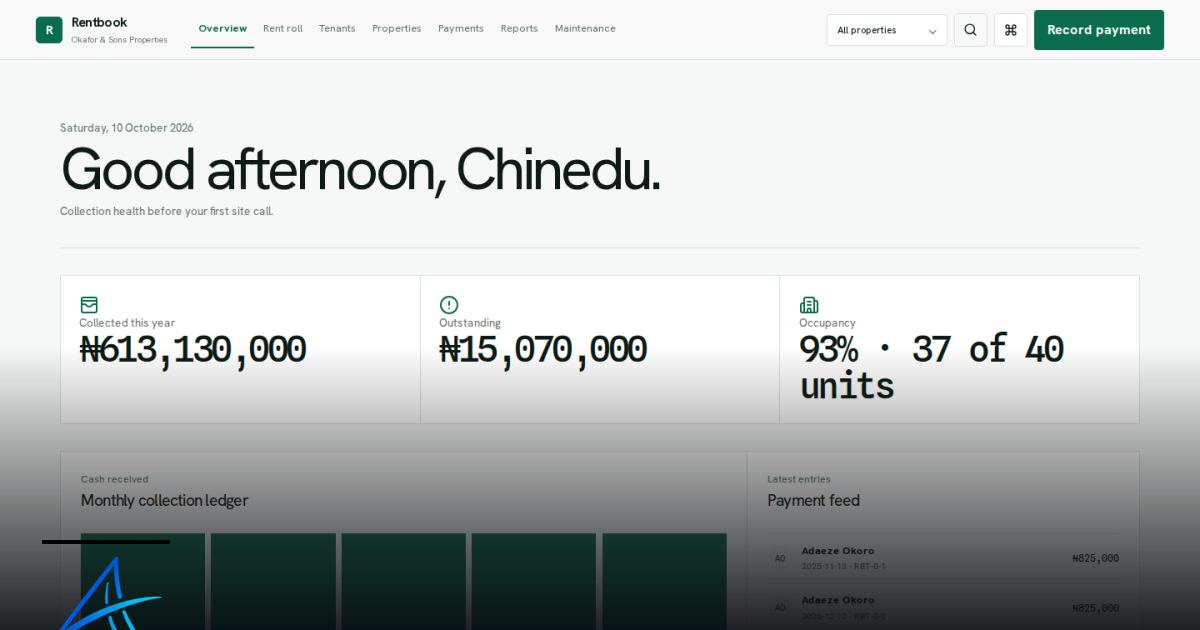
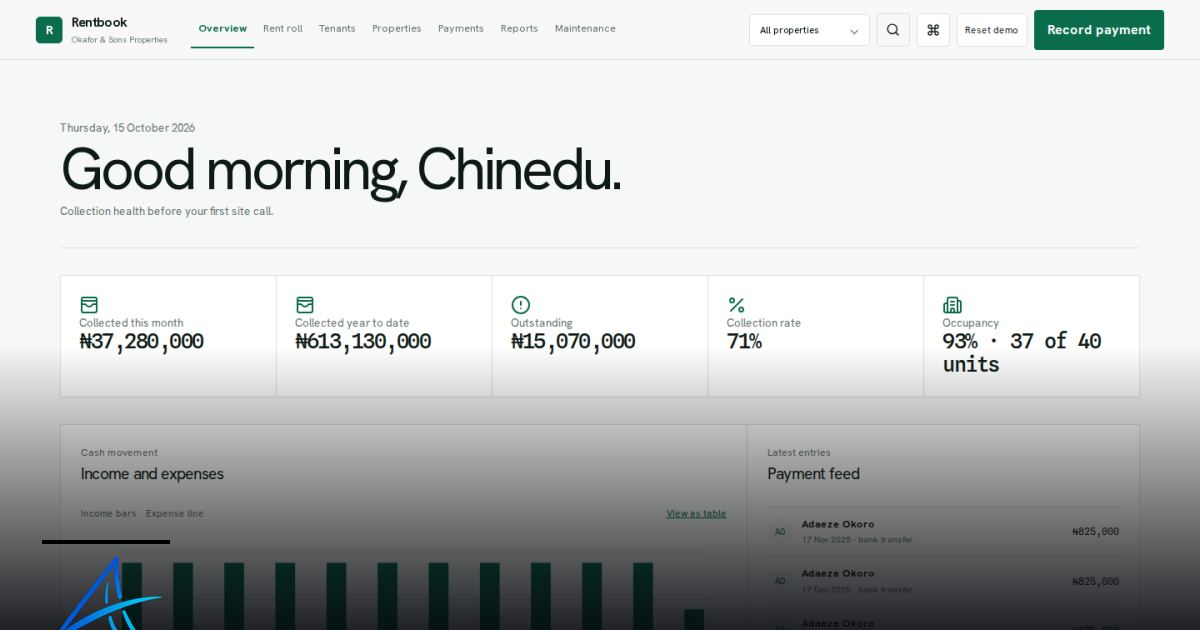
feat(hub): publish rentbook case study

diff --git a/src/demos/rentbook/styles/rentbook.css b/src/demos/rentbook/styles/rentbook.css
@@ -240,6 +240,24 @@
   font: 500 clamp(1.5rem, 3vw, 2.7rem)/1 var(--rbk-font-mono);
   letter-spacing: -0.08em;
 }
+.rbk-summary-five strong {
+  font-size: clamp(1.25rem, 1.75vw, 2rem);
+  letter-spacing: -0.06em;
+}
+.rbk-reset-trigger {
+  min-height: 40px;
+  border: 1px solid var(--rbk-line);
+  border-radius: 4px;
+  background: var(--rbk-surface);
+  color: var(--rbk-ink);
+  padding: 0.4rem 0.6rem;
+  font: 0.7rem var(--rbk-font-sans);
+  white-space: nowrap;
+}
+.rbk-reset-trigger:hover {
+  border-color: var(--rbk-emerald);
+  color: var(--rbk-emerald);
+}
 .rbk-attention {
   background: var(--rbk-surface);
   border: 1px solid var(--rbk-line);
@@ -302,6 +320,11 @@
     min-height: 40px;
     padding: 0.55rem 0.7rem;
     font-size: 0.75rem;
+  }
+  .rbk-reset-trigger {
+    min-height: 40px;
+    padding: 0.45rem;
+    font-size: 0.68rem;
   }
   .rbk-search-trigger {
     width: 40px;

diff --git a/src/demos/hub/data/case-studies.ts b/src/demos/hub/data/case-studies.ts
@@ -27,11 +27,11 @@ export const caseStudies: Record<Work["id"], CaseStudy> = {
     problem:
       "Rent follow-up gets unreliable when a portfolio is spread across notebooks, transfers and chats.",
     whatWeBuilt:
-      "A rent roll with property filters, payment actions and a ledger that makes the next decision obvious.",
+      "A property-aware rent roll, printable receipts and a building view that makes the next collection or care decision obvious.",
     whatToNotice: [
       "Press P to record a payment.",
-      "Filter the rent roll by property.",
-      "Open the command menu without leaving the ledger.",
+      "Print a receipt after recording it.",
+      "Open a building to inspect every unit at a glance.",
     ],
     whyItConverts: "It leads with the cash position and lets a manager act from the same screen.",
   },

diff --git a/src/shared/lib/useDismissibleLayer.ts b/src/shared/lib/useDismissibleLayer.ts
@@ -51,6 +51,7 @@ export function useDismissibleLayer({
     }
     const previousFocus =
       document.activeElement instanceof HTMLElement ? document.activeElement : null;
+    const trigger = triggerRef?.current;
     const trapTab = (event: KeyboardEvent) => {
       if (event.key !== "Tab") {
         return;
@@ -75,7 +76,7 @@ export function useDismissibleLayer({
     document.addEventListener("keydown", trapTab);
     return () => {
       document.removeEventListener("keydown", trapTab);
-      window.setTimeout(() => (triggerRef?.current ?? previousFocus)?.focus(), 0);
+      window.setTimeout(() => (trigger ?? previousFocus)?.focus(), 0);
     };
   }, [isOpen, layerRef, trapFocus, triggerRef]);
 }

diff --git a/src/demos/rentbook/components/RentbookShell.tsx b/src/demos/rentbook/components/RentbookShell.tsx
@@ -3,8 +3,8 @@
 import { usePathname, useRouter } from "next/navigation";
 import { useEffect, useRef, useState, type RefObject } from "react";
 
-import { useLagosNow } from "@/src/shared/lib/useLagosNow";
 import { useIsEmbedded } from "@/src/shared/lib/useIsEmbedded";
+import { useLagosNow } from "@/src/shared/lib/useLagosNow";
 
 import { PaymentDialog } from "./PaymentDialog";
 import { ReceiptDialog } from "./ReceiptDialog";

diff --git a/src/demos/rentbook/components/RentbookHeader.tsx b/src/demos/rentbook/components/RentbookHeader.tsx
@@ -90,7 +90,7 @@ export function RentbookHeader({
         >
           <Command aria-hidden="true" size={16} />
         </button>
-        <button className="rbk-command-trigger" type="button" onClick={onOpenReset}>
+        <button className="rbk-reset-trigger" type="button" onClick={onOpenReset}>
           Reset demo
         </button>
         <button className="rbk-primary" type="button" onClick={onOpenPayment}>

diff --git a/src/shared/lib/useIsEmbedded.ts b/src/shared/lib/useIsEmbedded.ts
@@ -1,13 +1,9 @@
 "use client";
 
-import { useEffect, useState } from "react";
+import { useState } from "react";
 
 export function useIsEmbedded() {
-  const [isEmbedded, setIsEmbedded] = useState(readEmbeddedState);
-
-  useEffect(() => {
-    setIsEmbedded(readEmbeddedState());
-  }, []);
+  const [isEmbedded] = useState(readEmbeddedState);
 
   return isEmbedded;
 }

diff --git a/src/demos/rentbook/styles/overview.css b/src/demos/rentbook/styles/overview.css
@@ -134,6 +134,9 @@
   .rbk-summary-five {
     grid-template-columns: repeat(2, 1fr);
   }
+  .rbk-summary-five article:last-child {
+    grid-column: span 2;
+  }
   .rbk-ledger-grid {
     grid-template-columns: 1fr;
   }

diff --git a/scripts/e2e-rentbook.ts b/scripts/e2e-rentbook.ts
@@ -1,6 +1,6 @@
-import { runE2E, type E2ETest } from "./lib/e2e.ts";
-
 import { readFile } from "node:fs/promises";
+
+import { runE2E, type E2ETest } from "./lib/e2e.ts";
 
 import type { Page } from "playwright";
 

diff --git a/PLAN.md b/PLAN.md
@@ -4,9 +4,10 @@ Living plan and progress tracker for **Axmion Showcase**. Codex reads this at th
 
 ### Session: 2026-10-15, Rentbook reports and maintenance continuation
 
-- Done: Committed property-scoped reports with SVG/table alternatives, client-side RFC 4180 CSV export and print styling as `d047712`; committed the maintenance list, status filtering, request dialog and update sheet as `729e956`.
-- Verification: `npm run typecheck` and `npm run check:csv` passed. Both commits passed their pre-commit gates with 0 errors and 24 existing size/complexity warnings.
-- Next session: Build the Rentbook command palette/shortcuts as the next vertical slice, then run its e2e coverage before beginning the phone/polish and hub-publishing pass. The full suite, screenshots, Lighthouse, previews/OG and Phase status update are still outstanding.
+- Done: Committed property-scoped reports with SVG/table alternatives, client-side RFC 4180 CSV export and print styling as `d047712`; committed the maintenance list, status filtering, request dialog and update sheet as `729e956`. Added the command palette, keyboard routes/actions, one-time payment hint, embedded-mode guard, maintenance activity/status enforcement and expanded browser coverage in `f837618`, `38df287`, `4d56c4b`, `c87de6e` and `46bd1a2`.
+- Publishing: Rentbook is published in `src/shared/works.ts`; the hub case study now calls out P-to-pay, printable receipts and the building view. `npm run previews` and `npm run og` generated the current assets. The Rentbook desktop preview revealed clipped summary figures, so the source correction is included in the final publishing worktree and needs a fresh production build before regenerated assets are accepted.
+- Verification: `npm run typecheck` and `npm run check:csv` passed. Commits passed their pre-commit gates with 0 errors and 25 existing size/complexity warnings. The sandbox observer stops long production builds before their final line; only the earlier successful build output is recorded. Lighthouse and the exhaustive all-route phone/style smoke remain for owner review.
+- Handoff: Phase 5 is Ready for review, never Approved. Review the regenerated Rentbook preview at desktop and phone, run the full production/e2e/phone/Lighthouse set in a terminal that can retain long processes, then commit the remaining publishing asset refresh.
 
 ### Session: 2026-10-15, Rentbook tenant and property continuation
 
@@ -37,7 +38,7 @@ Codex may set `In progress` and `Ready for review`. Only the project owner sets 
 | 2   | Sunreach Power (landing page)                                 | Approved                              |
 | 3   | Meridian Freight (business site)                              | Approved                              |
 | 4   | Harmattan Coffee Co. (business site)                          | Approved                              |
-| 5   | Rentbook (second custom tool)                                 | Approved                              |
+| 5   | Rentbook (second custom tool)                                 | Ready for review                      |
 | 6   | Stockroom (optional third tool; owner decision after Phase 5) | Not started                           |
 | 7   | Axmion hub (built last, covers every demo that exists)        | In progress (7C verification blocked) |
 | 8   | Polish: performance, a11y, responsive, motion                 | Not started                           |
